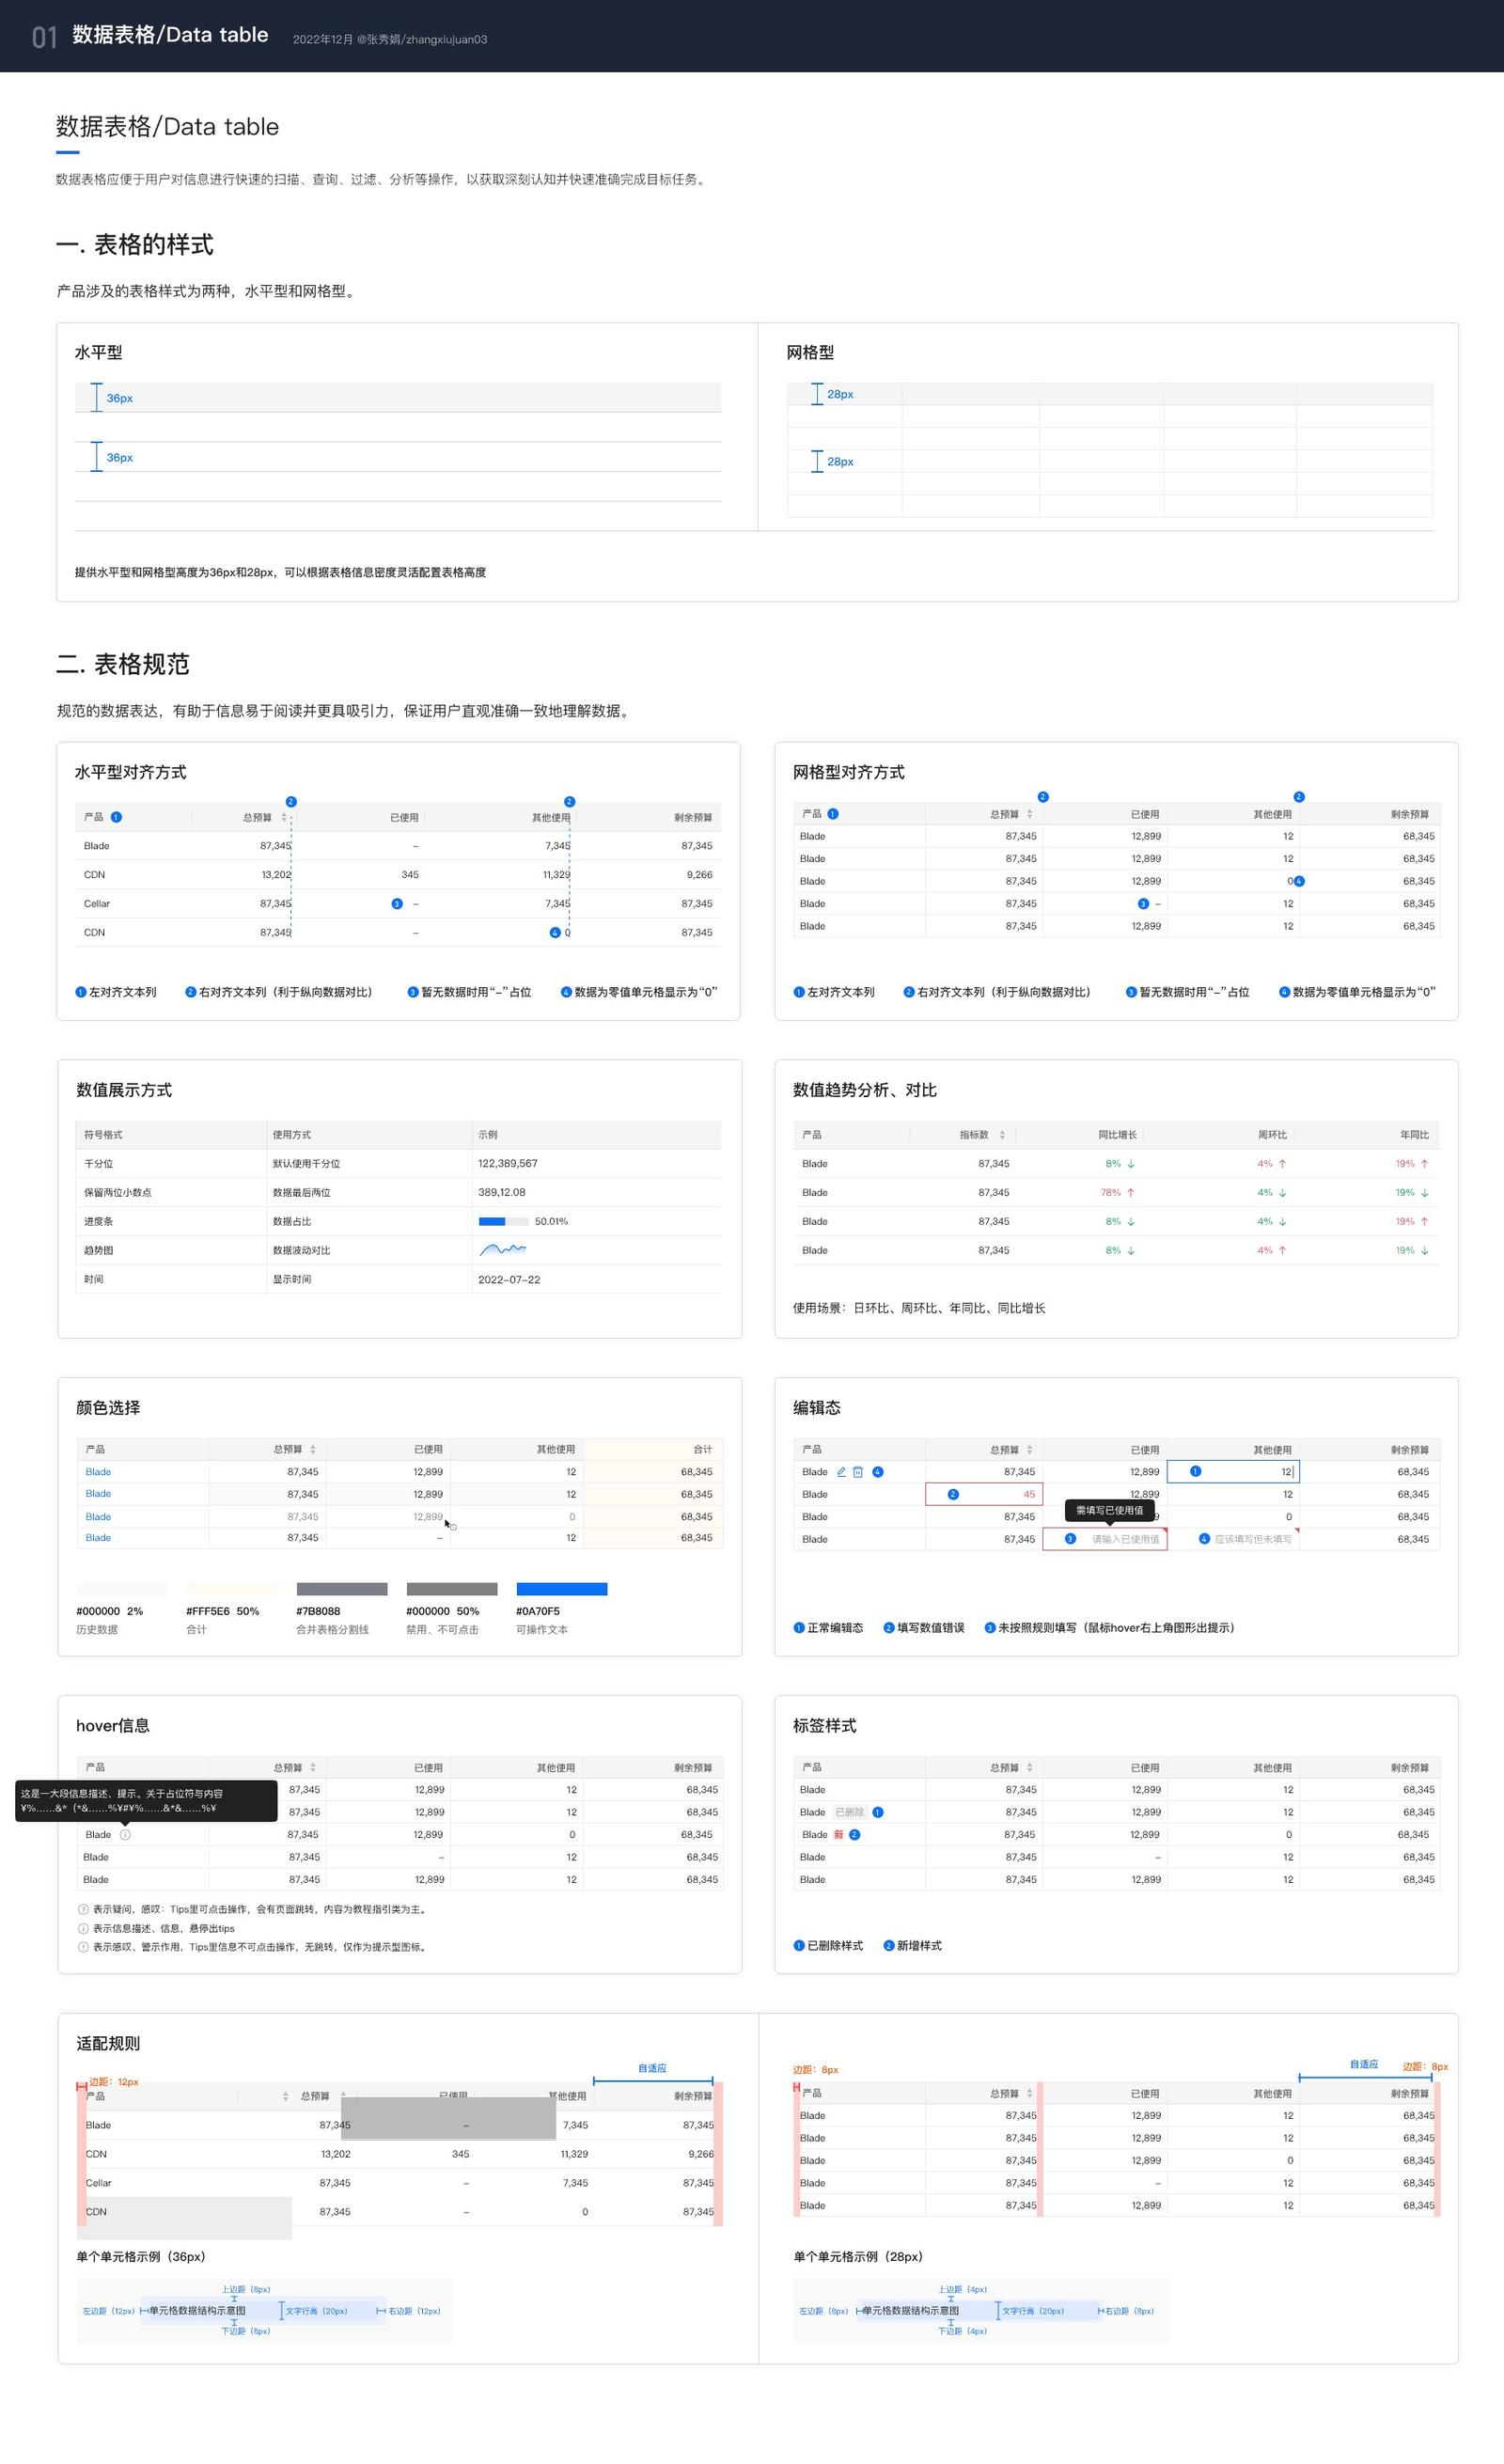
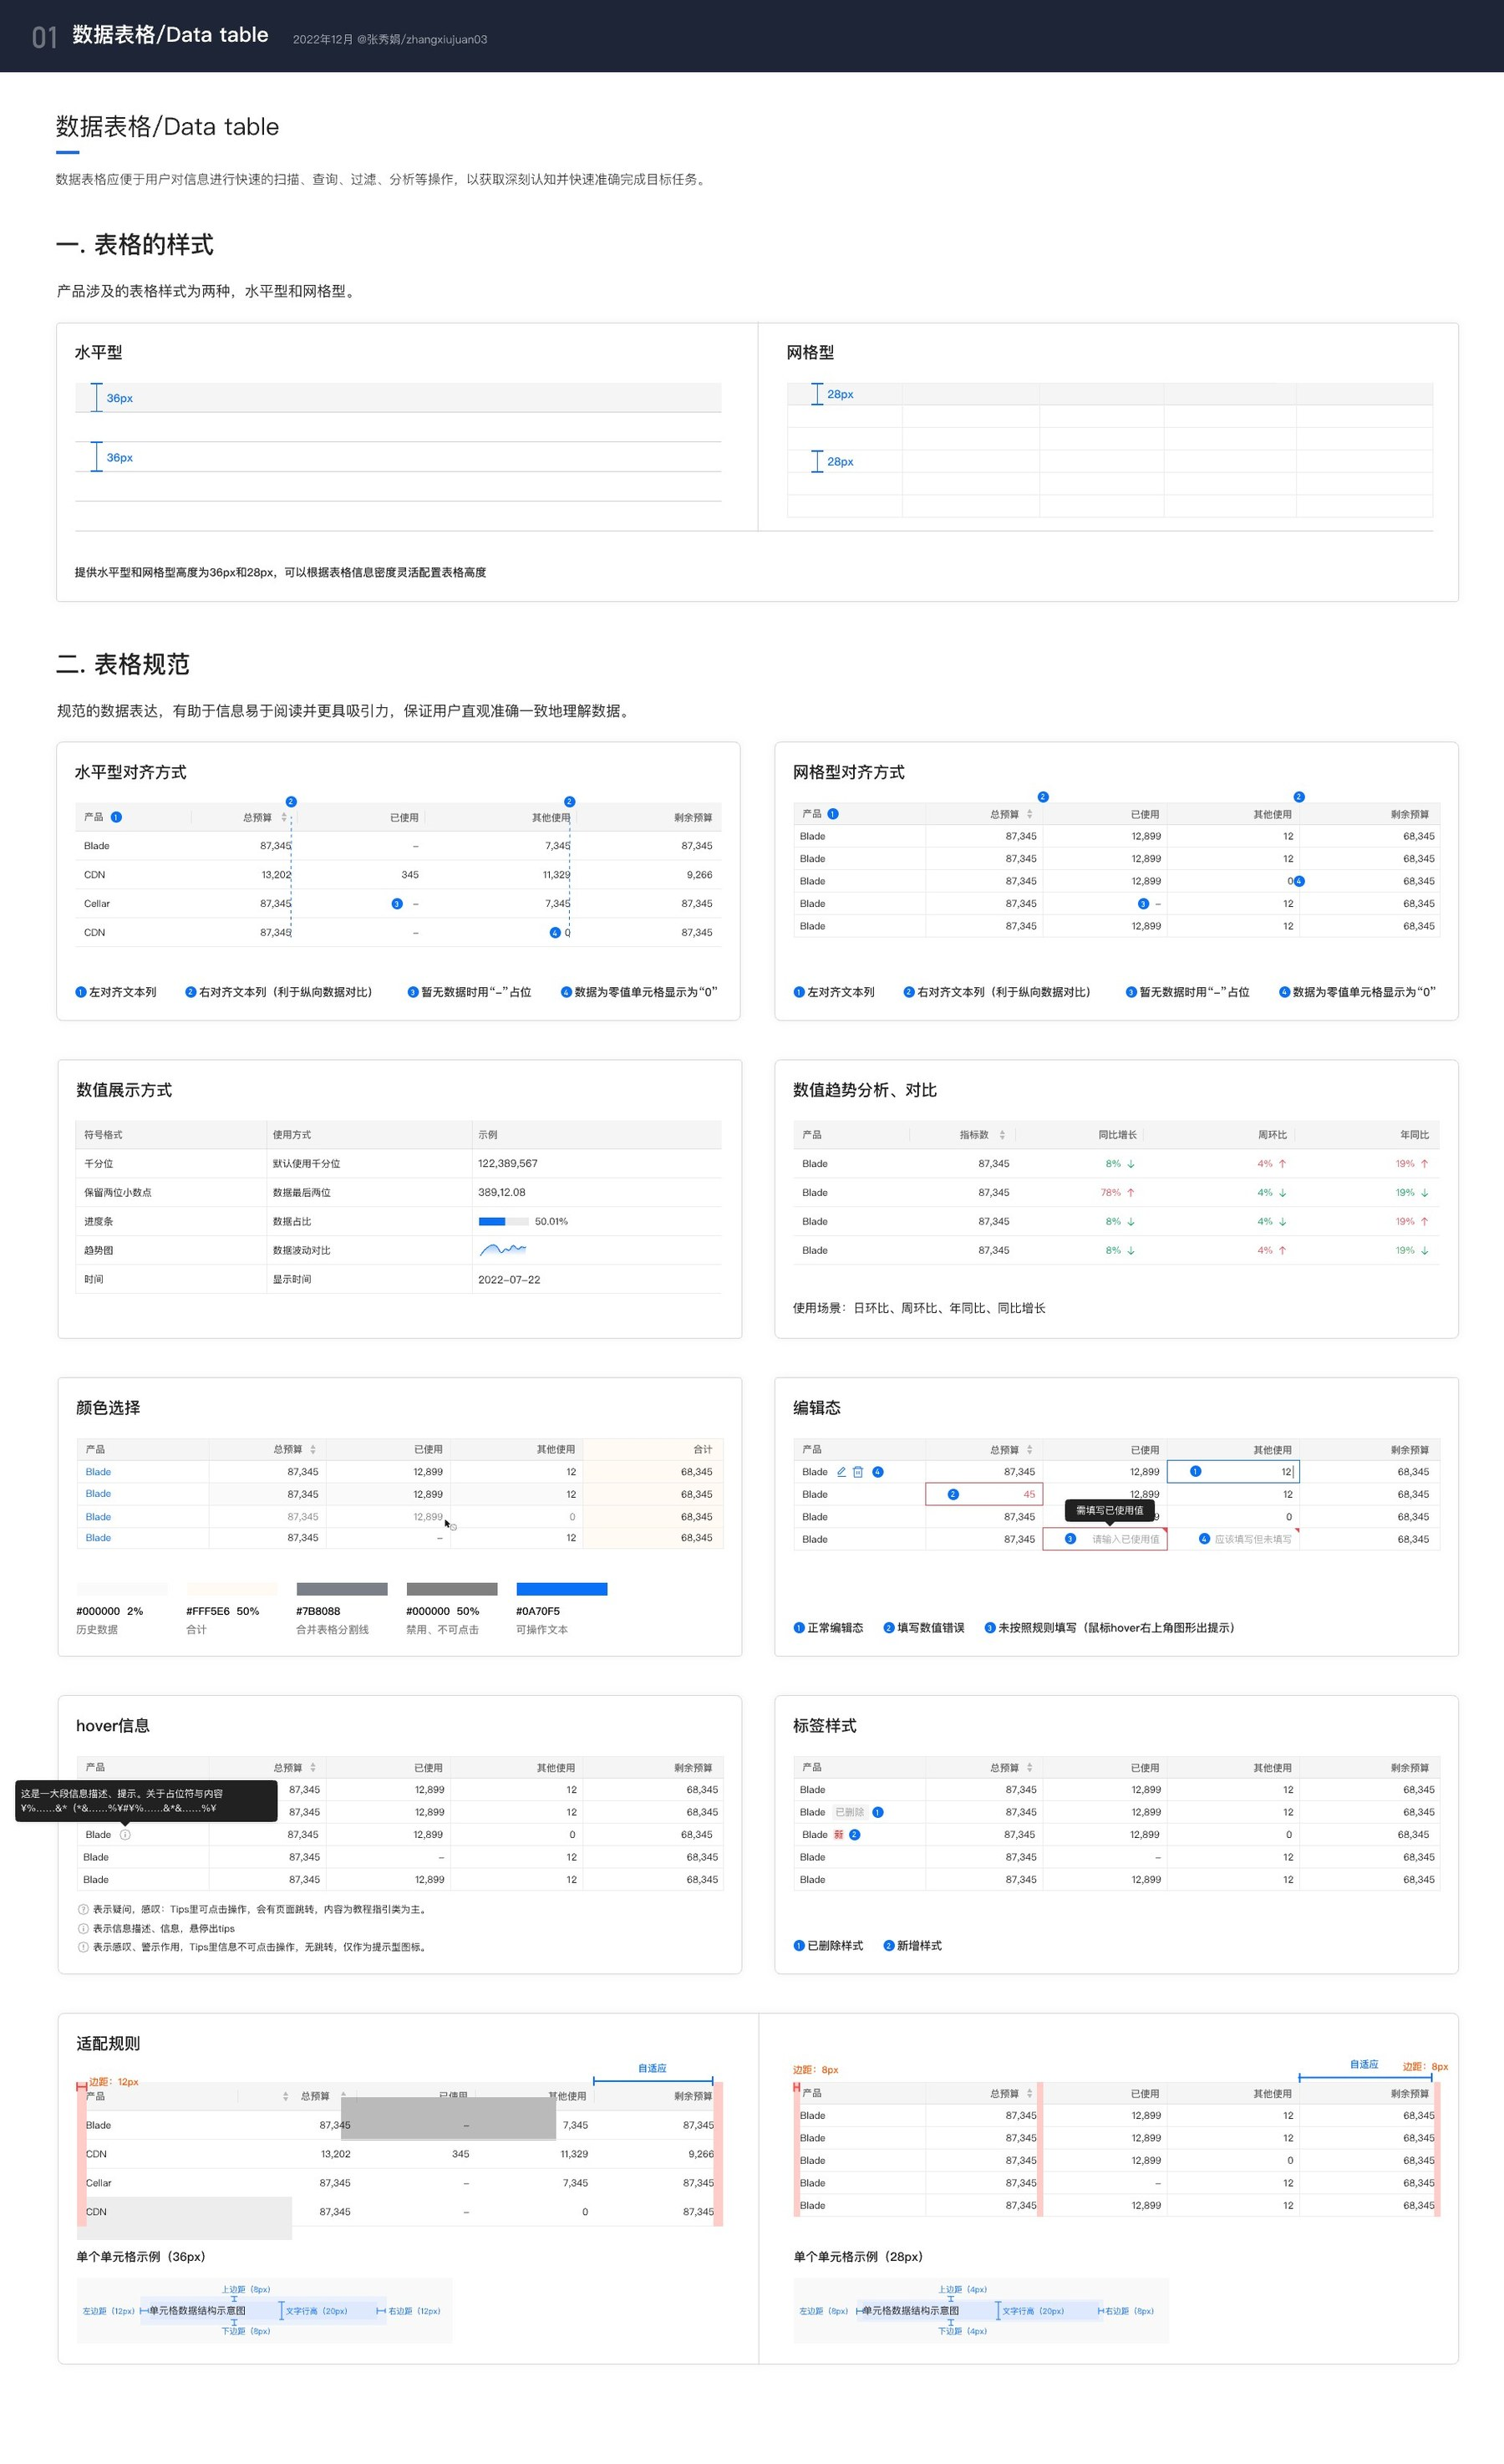
perf: 全站详情页图片从原始PNG恢复高清，1800px+quality=88

diff --git a/dcim_detail.html b/dcim_detail.html
@@ -365,19 +365,19 @@ section{padding:44px 0;border-bottom:1px solid var(--line)}
       <!-- Architecture 大图 -->
       <div style="margin-top:28px" class="screen-block">
         <div class="screen-label">园区总览大屏 — 天津汇海 IDC</div>
-        <img class="screen-img-dark" src="dcim_s3_real.png" alt="DCIM 园区总览大屏" style="width:100%;border-radius:12px;display:block" />
+        <img class="screen-img-dark" src="dcim_s3_real.jpg" alt="DCIM 园区总览大屏" style="width:100%;border-radius:12px;display:block" />
         <div class="screen-caption">天津汇海 IDC 园区总览大屏实景：多联屏拼接展示园区 3D 鸟瞰、实时 PUE、告警状态与监控画面，运维人员可在指挥中心集中查看园区全貌与各系统运行状态。</div>
       </div>
 
       <div class="screen-grid" style="margin-top:16px">
         <div class="screen-block">
           <div class="screen-label">楼栋剖面 3D 视图</div>
-          <img class="screen-img-dark" src="dcim_building.png" alt="楼栋剖面 3D 视图" style="width:100%;border-radius:12px;display:block" />
+          <img class="screen-img-dark" src="dcim_building.jpg" alt="楼栋剖面 3D 视图" style="width:100%;border-radius:12px;display:block" />
           <div class="screen-caption">园区楼栋 3D 鸟瞰：鼠标悬停楼栋即弹出信息卡片，展示服务器数量、启用/机柜数、PUE、功耗等核心指标；有告警的楼栋自动红色高亮（如 1 号机房楼），引导运维人员快速定位问题楼栋。</div>
         </div>
         <div class="screen-block">
           <div class="screen-label">机房楼层 3D 鸟瞰</div>
-          <img class="screen-img-dark" src="dcim_s4_real.png" alt="机房楼层 3D 鸟瞰" style="width:100%;border-radius:12px;display:block" />
+          <img class="screen-img-dark" src="dcim_s4_real.jpg" alt="机房楼层 3D 鸟瞰" style="width:100%;border-radius:12px;display:block" />
           <div class="screen-caption">机房现场实景：运维人员在机柜列间进行设备巡检与上架操作，红色高压配电柜与密集机柜列清晰可见，DCIM 系统中的空间视图与现场一一对应，支持精确定位与远程管理。</div>
         </div>
       </div>
@@ -419,12 +419,12 @@ section{padding:44px 0;border-bottom:1px solid var(--line)}
         <div class="screen-grid">
           <div class="screen-block">
             <div class="screen-label">机房 3D 视图 + 设备概览</div>
-            <img class="screen-img-dark" src="dcim_s5.png" alt="机房 3D 视图" />
+            <img class="screen-img-dark" src="dcim_s5.jpg" alt="机房 3D 视图" />
             <div class="screen-caption">右侧实时展示机柜数、服务器数、恒温机、空调数量；列头柜负载进度条异常时自动标红（83% 过载）。</div>
           </div>
           <div class="screen-block">
             <div class="screen-label">设备 Hover 信息卡片</div>
-            <img class="screen-img-dark" src="dcim_s14.png" alt="设备信息卡片" />
+            <img class="screen-img-dark" src="dcim_s14.jpg" alt="设备信息卡片" />
             <div class="screen-caption">3D 场景中鼠标悬浮设备时弹出信息卡，显示编号、名称、实时状态，异常设备红色高亮区分。</div>
           </div>
         </div>
@@ -435,7 +435,7 @@ section{padding:44px 0;border-bottom:1px solid var(--line)}
         <div class="sec-label">Environment Monitor</div>
         <div class="sec-title" style="font-size:20px">温湿度实时感知</div>
         <div class="screen-block">
-          <img class="screen-img-dark" src="dcim_s13.png" alt="温湿度监控" />
+          <img class="screen-img-dark" src="dcim_s13.jpg" alt="温湿度监控" />
           <div class="screen-caption">2D 平面视图中，每个温湿度传感器以圆形气泡标注实时数值。正常状态显示蓝色，湿度超限时切换为红色告警气泡，位置精确对应物理布点。设备编号 TH-5 湿度 50.2%RH 触发告警。</div>
         </div>
       </div>
@@ -447,18 +447,18 @@ section{padding:44px 0;border-bottom:1px solid var(--line)}
         <div class="screen-grid">
           <div class="screen-block">
             <div class="screen-label">列头柜支路监控</div>
-            <img class="screen-img-dark" src="dcim_s10.png" alt="列头柜详情" />
+            <img class="screen-img-dark" src="dcim_s10.jpg" alt="列头柜详情" />
             <div class="screen-caption">精确展示每条支路的开关状态、支路电流、功率、用电量，异常支路（支路7、支路1）用橙色⚠️标注，配合 3D 机柜模型直观定位。</div>
           </div>
           <div class="screen-block">
             <div class="screen-label">电池组健康状态</div>
-            <img class="screen-img-dark" src="dcim_s11.png" alt="电池组监控" />
+            <img class="screen-img-dark" src="dcim_s11.jpg" alt="电池组监控" />
             <div class="screen-caption">单体电压、内阻、温度三维度同时监控，柱状图直观对比 40 颗电池单体的健康差异，提前预判 UPS 故障风险。</div>
           </div>
         </div>
         <div class="screen-block" style="margin-top:16px">
           <div class="screen-label">柴油发电机全量参数</div>
-          <img class="screen-img-dark" src="dcim_s12.png" alt="柴油机监控" />
+          <img class="screen-img-dark" src="dcim_s12.jpg" alt="柴油机监控" />
           <div class="screen-caption">柴油机运行状态（停止/手动/自动）、多路电压电流、总有功功率、累计运行时长（38,917,331 小时）、启动次数（817,391 次）等全量参数在线可查，故障类型精确标注（低水位/低油位/过流/低频等）。</div>
         </div>
       </div>
@@ -471,12 +471,12 @@ section{padding:44px 0;border-bottom:1px solid var(--line)}
         <div class="screen-grid">
           <div class="screen-block">
             <div class="screen-label">空间列表</div>
-            <img class="screen-img-dark" src="dcim_data_space.png" alt="空间列表" style="width:100%;border-radius:12px;display:block" />
+            <img class="screen-img-dark" src="dcim_data_space.jpg" alt="空间列表" style="width:100%;border-radius:12px;display:block" />
             <div class="screen-caption">结构化空间数据表：按园区 → 楼栋 → 楼层 → 机房间层级组织，包含 space_id、中英文名称、pof 等字段，是 3D 空间视图和告警定位的数据基础。</div>
           </div>
           <div class="screen-block">
             <div class="screen-label">数据列表</div>
-            <img class="screen-img-dark" src="dcim_data_list.png" alt="数据列表" style="width:100%;border-radius:12px;display:block" />
+            <img class="screen-img-dark" src="dcim_data_list.jpg" alt="数据列表" style="width:100%;border-radius:12px;display:block" />
             <div class="screen-caption">设备与测点映射表：记录每台设备的 appkey、所属机房、设备类型、测点 tag 及 metric 指标，标注已有/新增 metric，是监控数据接入的核心交付物。</div>
           </div>
         </div>
@@ -490,12 +490,12 @@ section{padding:44px 0;border-bottom:1px solid var(--line)}
         <div class="screen-grid">
           <div class="screen-block">
             <div class="screen-label">设备分组列表</div>
-            <img class="screen-img-dark" src="dcim_device_group.png" alt="设备分组列表" style="width:100%;border-radius:12px;display:block" />
+            <img class="screen-img-dark" src="dcim_device_group.jpg" alt="设备分组列表" style="width:100%;border-radius:12px;display:block" />
             <div class="screen-caption">共 610 个分组，按数据中心、设备类型分类管理，支持查看每个分组的设备总数、应用设备数及最近更新记录。</div>
           </div>
           <div class="screen-block">
             <div class="screen-label">编辑分组</div>
-            <img class="screen-img-dark" src="dcim_device_group_edit.png" alt="编辑分组" style="width:100%;border-radius:12px;display:block" />
+            <img class="screen-img-dark" src="dcim_device_group_edit.jpg" alt="编辑分组" style="width:100%;border-radius:12px;display:block" />
             <div class="screen-caption">新建或编辑分组时，指定分组名称、所属数据中心、设备类型与描述，系统自动关联该分组下的所有设备。</div>
           </div>
         </div>
@@ -523,18 +523,18 @@ section{padding:44px 0;border-bottom:1px solid var(--line)}
         <div class="screen-grid">
           <div class="screen-block">
             <div class="screen-label">告警策略列表</div>
-            <img class="screen-img-dark" src="dcim_alarm_list.png" alt="告警策略列表" style="width:100%;border-radius:12px;display:block" />
+            <img class="screen-img-dark" src="dcim_alarm_list.jpg" alt="告警策略列表" style="width:100%;border-radius:12px;display:block" />
             <div class="screen-caption">共 1074 条告警策略，按 IDC、设备分组、所属场景多维筛选，支持 P0–P3 分级，每条策略记录告警名称、来源、设备数量阈值与生效状态。</div>
           </div>
           <div class="screen-block">
             <div class="screen-label">编辑策略 — 分组/设备策略配置</div>
-            <img class="screen-img-dark" src="dcim_alarm_edit.png" alt="编辑告警策略" style="width:100%;border-radius:12px;display:block" />
+            <img class="screen-img-dark" src="dcim_alarm_edit.jpg" alt="编辑告警策略" style="width:100%;border-radius:12px;display:block" />
             <div class="screen-caption">策略配置包含基础信息（类型/机房/场景/告警等级）、应用范围（设备分组）、告警条件（监控指标/条件参数/连续命中次数）和通知范围（大象/短信/电话），配置完成后实时生效。</div>
           </div>
         </div>
         <div class="screen-block" style="margin-top:16px">
           <div class="screen-label">Raptor 监控平台 — 数据打通</div>
-          <img class="screen-img-dark" src="dcim_raptor.png" alt="Raptor监控平台" style="width:100%;border-radius:12px;display:block" />
+          <img class="screen-img-dark" src="dcim_raptor.jpg" alt="Raptor监控平台" style="width:100%;border-radius:12px;display:block" />
           <div class="screen-caption">DCIM 与内部 Raptor 监控平台打通，设备测点数据实时同步至 Raptor，告警策略在 DCIM 配置后自动下发，故障触发时通过大象/短信/电话多渠道推送值班工程师，实现端到端的实时监控闭环。</div>
         </div>
       </div>
@@ -592,30 +592,30 @@ section{padding:44px 0;border-bottom:1px solid var(--line)}
         <div class="sec-title" style="font-size:20px">系统界面全览</div>
         <div class="screen-block">
           <div class="screen-label">园区总览 — 3D 鸟瞰 + 实时数据大屏</div>
-          <img class="screen-img-dark" src="dcim_s2_real.png" alt="DCIM 实时数据大屏" style="width:100%;border-radius:12px;display:block" />
+          <img class="screen-img-dark" src="dcim_s2_real.jpg" alt="DCIM 实时数据大屏" style="width:100%;border-radius:12px;display:block" />
           <div class="screen-caption">DCIM 实时数据大屏</div>
         </div>
         <div class="screen-grid" style="margin-top:16px">
           <div class="screen-block">
             <div class="screen-label">楼宇异常 — 园区级告警定位</div>
-            <img class="screen-img-dark" src="dcim_building_alarm.png" alt="楼宇异常" style="width:100%;border-radius:12px;display:block" />
+            <img class="screen-img-dark" src="dcim_building_alarm.jpg" alt="楼宇异常" style="width:100%;border-radius:12px;display:block" />
             <div class="screen-caption">有告警的楼栋自动标红高亮，悬停楼栋弹出信息卡片，展示服务器数、机柜数、PUE、功耗等核心指标。</div>
           </div>
           <div class="screen-block">
             <div class="screen-label">楼层异常 — 机房间级告警下钻</div>
-            <img class="screen-img-dark" src="dcim_floor_alarm.png" alt="楼层异常" style="width:100%;border-radius:12px;display:block" />
+            <img class="screen-img-dark" src="dcim_floor_alarm.jpg" alt="楼层异常" style="width:100%;border-radius:12px;display:block" />
             <div class="screen-caption">楼层 3D 俯视图，有告警的机房间自动红色高亮，支持 1–4 层快速切换，精确定位到问题房间。</div>
           </div>
         </div>
         <div class="screen-grid" style="margin-top:16px">
           <div class="screen-block">
             <div class="screen-label">温度传感 — 机柜列热力图</div>
-            <img class="screen-img-dark" src="dcim_temp_sensor.png" alt="温度传感" style="width:100%;border-radius:12px;display:block" />
+            <img class="screen-img-dark" src="dcim_temp_sensor.jpg" alt="温度传感" style="width:100%;border-radius:12px;display:block" />
             <div class="screen-caption">机柜列 3D 热力图叠加，超阈值测点红色标注，右侧实时展示各传感器温湿度数据。</div>
           </div>
           <div class="screen-block">
             <div class="screen-label">湿度传感 — 机柜列 2D 平面监控</div>
-            <img class="screen-img-dark" src="dcim_humid_sensor.png" alt="湿度传感" style="width:100%;border-radius:12px;display:block" />
+            <img class="screen-img-dark" src="dcim_humid_sensor.jpg" alt="湿度传感" style="width:100%;border-radius:12px;display:block" />
             <div class="screen-caption">2D 平面图每台机柜实时显示温湿度，右侧列头柜负载看板按支路展示容量使用率。</div>
           </div>
         </div>

diff --git a/mws_detail.html b/mws_detail.html
@@ -294,13 +294,13 @@ section{padding:40px 0;border-bottom:1px solid var(--line)}
         </div>
         <div style="display:flex;gap:12px;margin-top:20px">
           <div style="flex:1;border-radius:12px;overflow:hidden;border:1px solid var(--line)">
-            <img src="mws_color.png" style="width:100%;display:block" alt="色彩规范" />
+            <img src="mws_color.jpg" style="width:100%;display:block" alt="色彩规范" />
           </div>
           <div style="flex:1;border-radius:12px;overflow:hidden;border:1px solid var(--line)">
-            <img src="mws_grid.png" style="width:100%;display:block" alt="网格与栅格" />
+            <img src="mws_grid.jpg" style="width:100%;display:block" alt="网格与栅格" />
           </div>
           <div style="flex:1;border-radius:12px;overflow:hidden;border:1px solid var(--line)">
-            <img src="mws_icon.png" style="width:100%;display:block" alt="图标体系" />
+            <img src="mws_icon.jpg" style="width:100%;display:block" alt="图标体系" />
           </div>
         </div>
       </div>
@@ -323,7 +323,7 @@ section{padding:40px 0;border-bottom:1px solid var(--line)}
 </div>
 <div class="comp-item">
 <div>
-<img class="comp-thumb" src="02 标题@2x (2).png" alt="标题区块">
+<img class="comp-thumb" src="02 标题@2x (2).jpg" alt="标题区块">
 <div class="comp-tag">页面结构</div>
 </div>
 <div>
@@ -333,7 +333,7 @@ section{padding:40px 0;border-bottom:1px solid var(--line)}
 </div>
 <div class="comp-item">
 <div>
-<img class="comp-thumb" src="03_Tab区块@2x (2).png" alt="Tab区块">
+<img class="comp-thumb" src="03_Tab区块@2x (2).jpg" alt="Tab区块">
 <div class="comp-tag">页面结构</div>
 </div>
 <div>
@@ -343,7 +343,7 @@ section{padding:40px 0;border-bottom:1px solid var(--line)}
 </div>
 <div class="comp-item">
 <div>
-<img class="comp-thumb" src="MWS导航 (2).png" alt="MWS导航">
+<img class="comp-thumb" src="MWS导航 (2).jpg" alt="MWS导航">
 <div class="comp-tag">导航结构</div>
 </div>
 <div>
@@ -353,7 +353,7 @@ section{padding:40px 0;border-bottom:1px solid var(--line)}
 </div>
 <div class="comp-item">
 <div>
-<img class="comp-thumb" src="09 头像信息@2x.png" alt="用户信息">
+<img class="comp-thumb" src="09 头像信息@2x.jpg" alt="用户信息">
 <div class="comp-tag">数据录入</div>
 </div>
 <div>
@@ -363,7 +363,7 @@ section{padding:40px 0;border-bottom:1px solid var(--line)}
 </div>
 <div class="comp-item">
 <div>
-<img class="comp-thumb" src="10 步骤条.png" alt="步骤条">
+<img class="comp-thumb" src="10 步骤条.jpg" alt="步骤条">
 <div class="comp-tag">流程引导</div>
 </div>
 <div>
@@ -373,7 +373,7 @@ section{padding:40px 0;border-bottom:1px solid var(--line)}
 </div>
 <div class="comp-item">
 <div>
-<img class="comp-thumb" src="11 对比.png" alt="对比组件">
+<img class="comp-thumb" src="11 对比.jpg" alt="对比组件">
 <div class="comp-tag">数据分析</div>
 </div>
 <div>
@@ -383,7 +383,7 @@ section{padding:40px 0;border-bottom:1px solid var(--line)}
 </div>
 <div class="comp-item">
 <div>
-<img class="comp-thumb" src="12 穿梭框.png" alt="穿梭框">
+<img class="comp-thumb" src="12 穿梭框.jpg" alt="穿梭框">
 <div class="comp-tag">数据录入</div>
 </div>
 <div>
@@ -402,7 +402,7 @@ section{padding:40px 0;border-bottom:1px solid var(--line)}
         <div class="component-row">
           <div class="comp-item">
             <div>
-              <img class="comp-thumb" src="A 列表页使用说明 (2).png" alt="列表页模板">
+              <img class="comp-thumb" src="A 列表页使用说明 (2).jpg" alt="列表页模板">
               <div class="comp-tag">列表页</div>
             </div>
             <div>
@@ -412,7 +412,7 @@ section{padding:40px 0;border-bottom:1px solid var(--line)}
           </div>
           <div class="comp-item">
             <div>
-              <img class="comp-thumb" src="A 表单页使用说明 (1).png" alt="表单页模板">
+              <img class="comp-thumb" src="A 表单页使用说明 (1).jpg" alt="表单页模板">
               <div class="comp-tag">表单页</div>
             </div>
             <div>
@@ -422,7 +422,7 @@ section{padding:40px 0;border-bottom:1px solid var(--line)}
           </div>
           <div class="comp-item">
             <div>
-              <img class="comp-thumb" src="01 详情页 (1).png" alt="详情页模板">
+              <img class="comp-thumb" src="01 详情页 (1).jpg" alt="详情页模板">
               <div class="comp-tag">详情页</div>
             </div>
             <div>
@@ -432,7 +432,7 @@ section{padding:40px 0;border-bottom:1px solid var(--line)}
           </div>
           <div class="comp-item">
             <div>
-              <img class="comp-thumb" src="A Dashboard页使用说明 (1).png" alt="Dashboard模板">
+              <img class="comp-thumb" src="A Dashboard页使用说明 (1).jpg" alt="Dashboard模板">
               <div class="comp-tag">Dashboard</div>
             </div>
             <div>